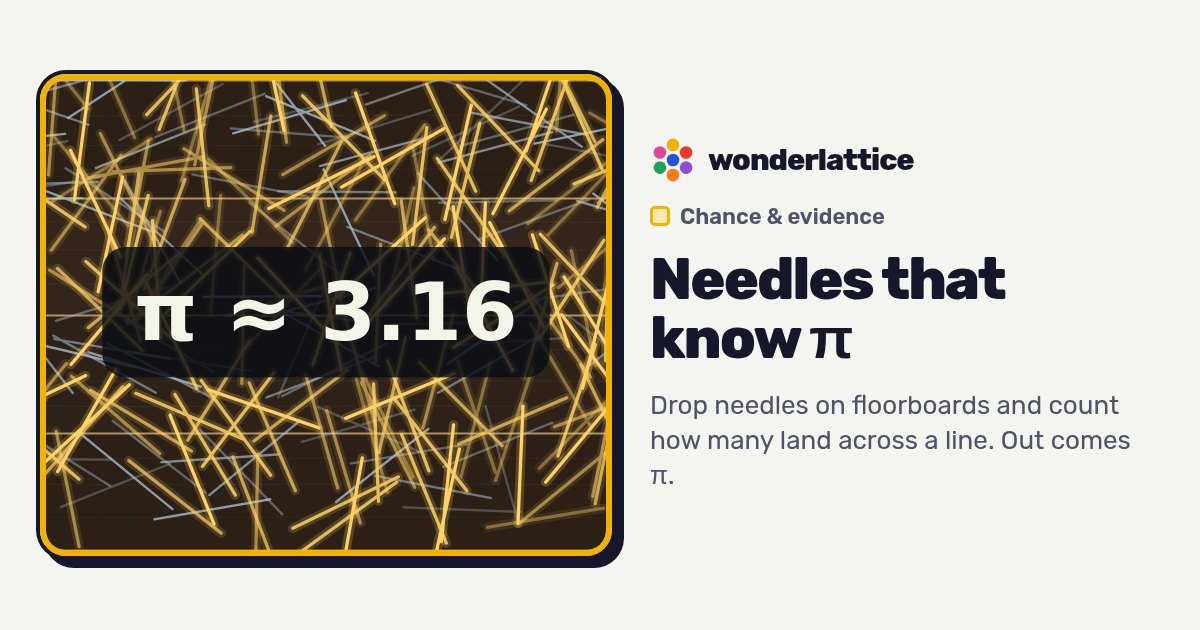
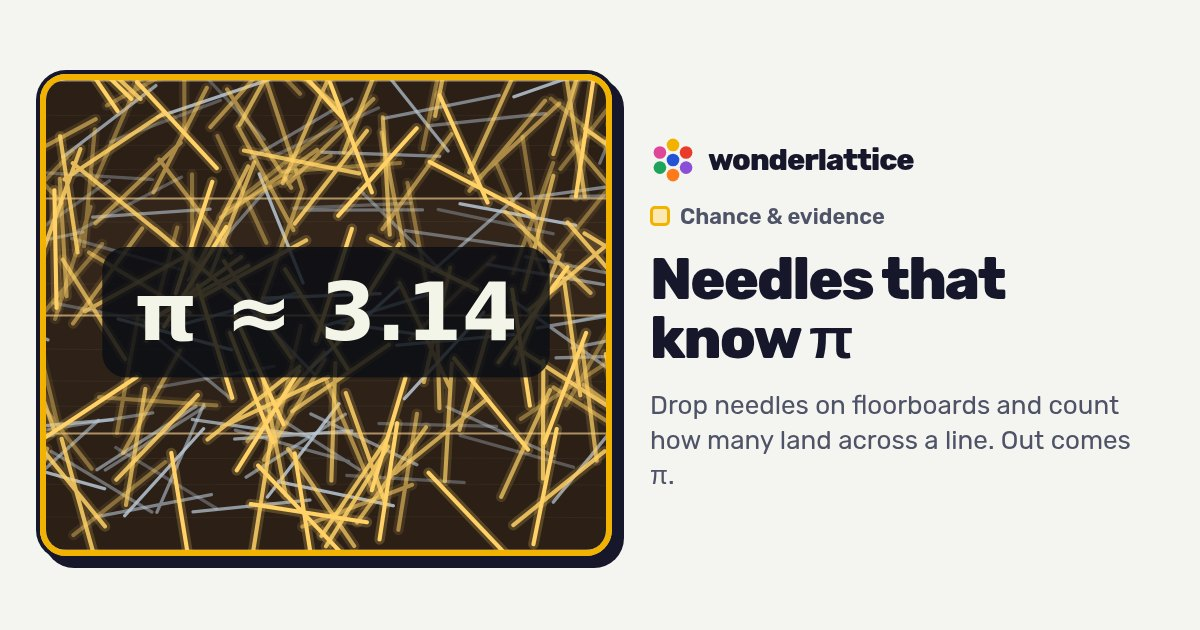
Needles room: map picture from 200,000 needles
Claude-Session: https://claude.ai/code/session_01XtacsUj1CecyhkN6ZQTzsh

Changed region(s): [[0.0308, 0.1206, 0.5242, 0.8746]]

diff --git a/src/rooms/needles/room.js b/src/rooms/needles/room.js
@@ -592,11 +592,11 @@
     paint(ctx, stage.width, stage.height, current(s));
   }
 
-  /** The map's picture and the link preview: a floor after a few thousand needles, with the guess in the middle. */
+  /** The map's picture and the link preview: a floor after many needles, with the guess in the middle. */
   function preview(ctx, width, height) {
     const r = fresh({ shape: M.NEEDLE, length: 100, lucky: false, seed: 4 });
     r.time = 10;
-    throwMany(r, 4000);
+    throwMany(r, 200000);
     ctx.fillStyle = COLOURS.ground;
     ctx.fillRect(0, 0, width, height);
     ctx.direction = 'ltr';
